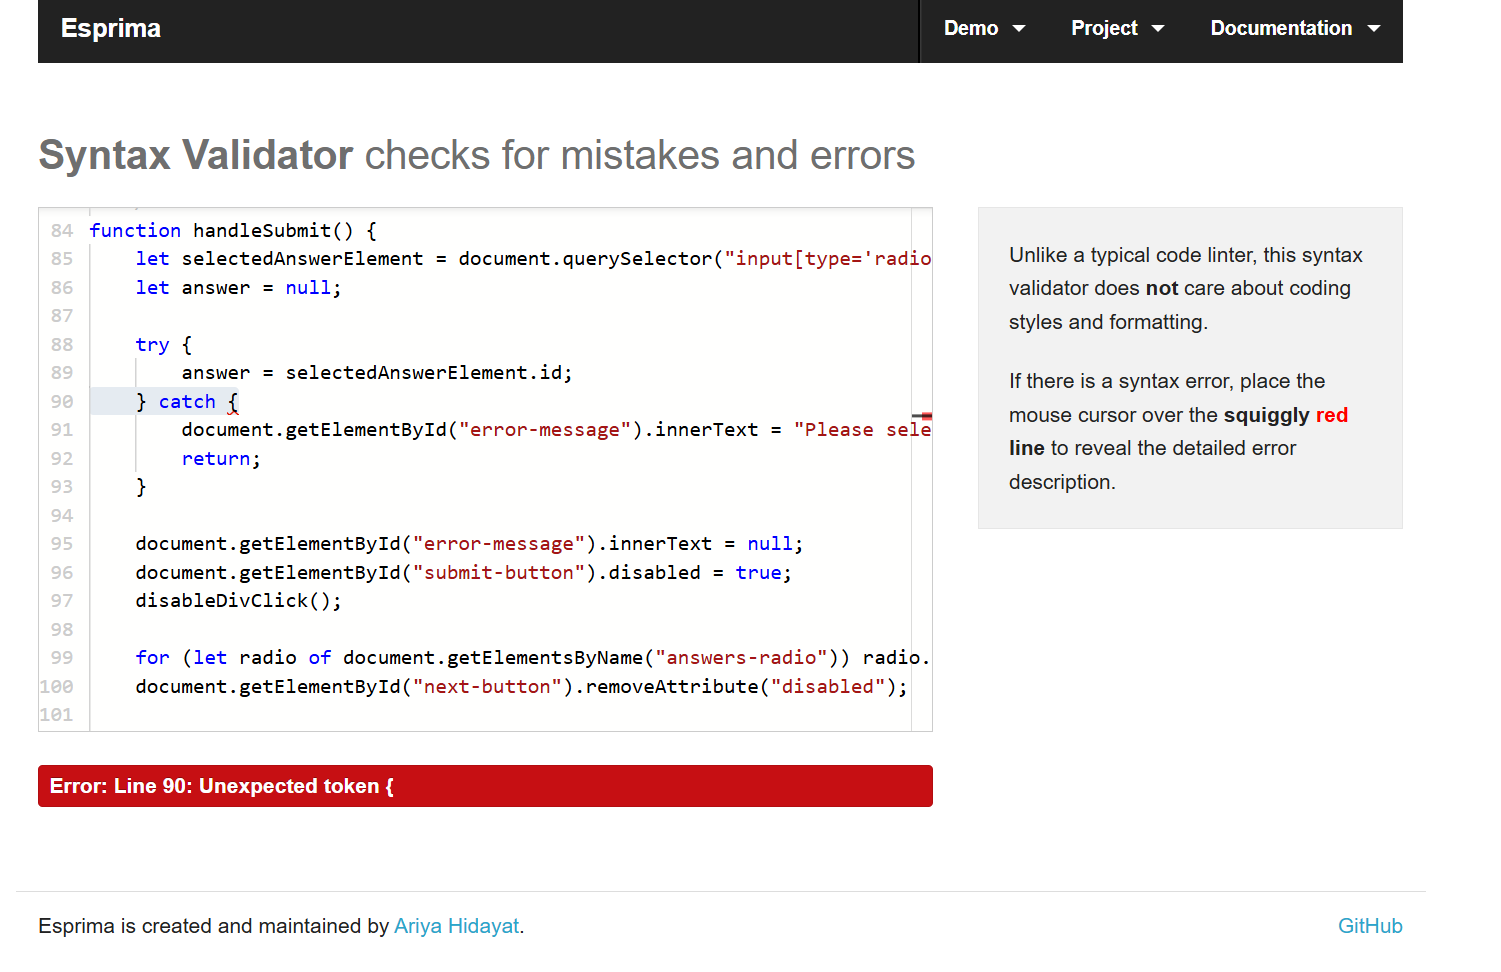
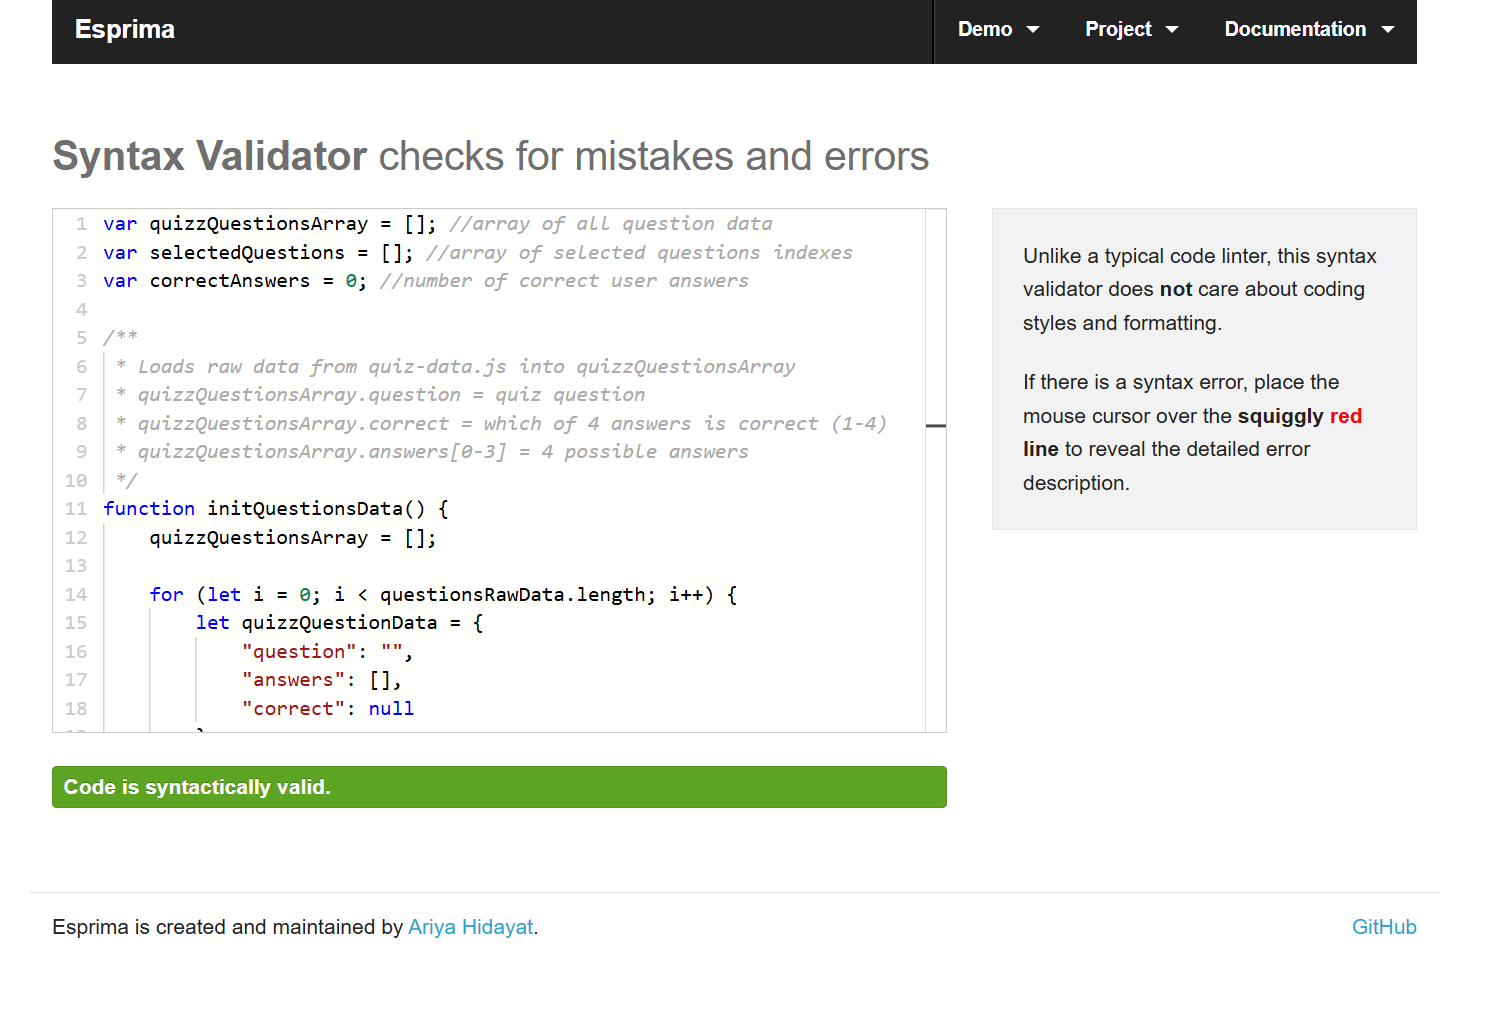
Replace validation screenshot and update with pass for JS

diff --git a/README.md b/README.md
@@ -337,4 +337,4 @@ We have used the recommended [Esprima](https://esprima.org/) to validate our JS 
 | --- | --- | --- |
 | modal-mechanics.js | ![modal mechanics JS validation screenshot](docs/validation-js-modal-mechanics.png)| passed |
 | quiz-data.js | ![quizz data JS validation screenshot](docs/validation-js-quizz-json.png) | passed |
-| quizz-mechannics.js | ![quizz mechanics JS validation screenshot](docs/validation-js-quizz-mechanics.png) | 1 error but tested, and does not seem significant |
+| quizz-mechannics.js | ![quizz mechanics JS validation screenshot](docs/validation-js-quizz-mechanics.png) | passed |
